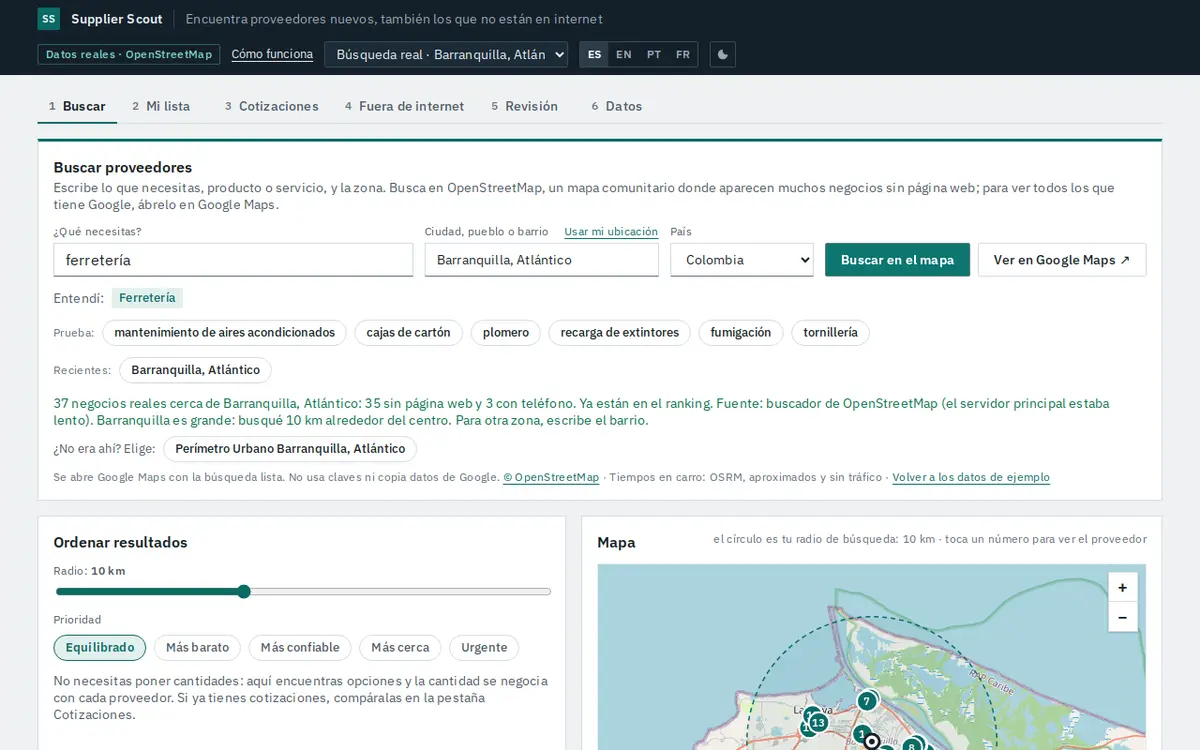
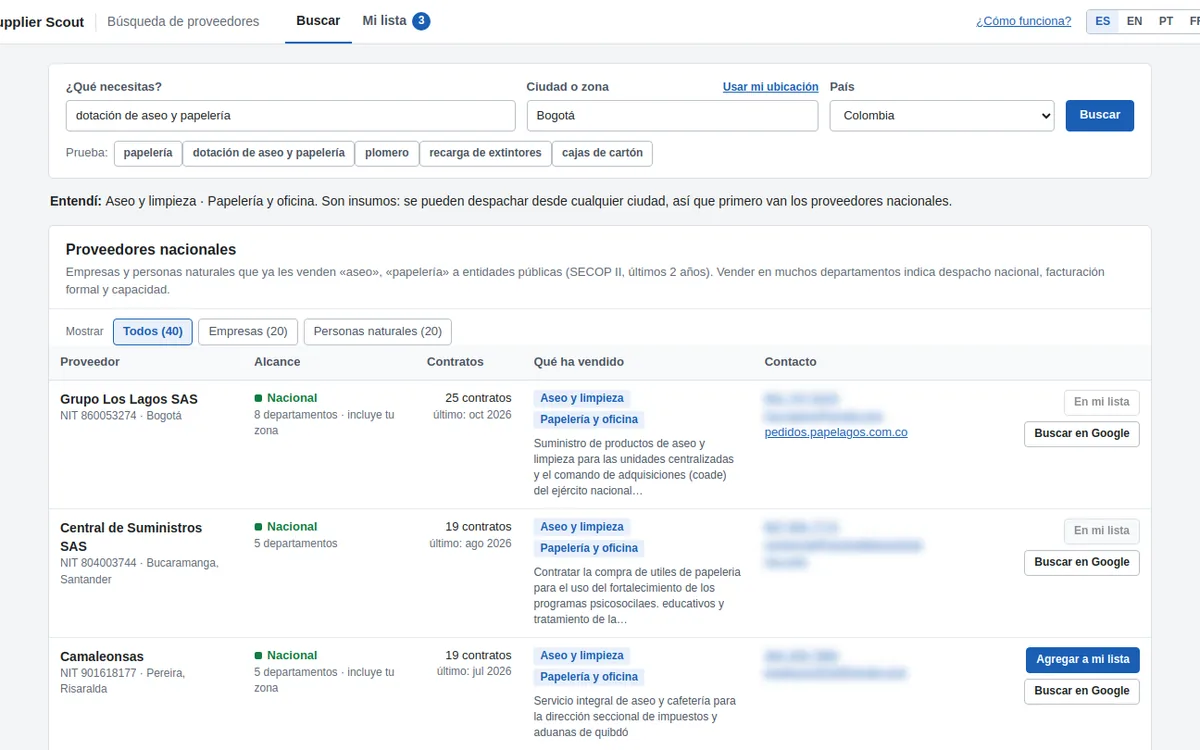
Portafolio: Supplier Scout y Supplier Radar al día
- Scout: búsqueda por capas (SECOP II, mis proveedores, cercanos, internet),
  personas naturales protegidas, 58/58 proveedores comprobados por NIT,
  199 pruebas e imagen nueva con datos reales (contactos difuminados).
- Radar: lee cada documento por dentro y revisa su vigencia; 159/201 fotos
  difíciles bien leídas y 0 aplicadas solas con error; imagen nueva.
- README: el guion de 2 minutos con las cifras nuevas.

Claude-Session: https://claude.ai/code/session_01KDuhrJDjhPcUyJR8smYRnx

diff --git a/index.html b/index.html
@@ -117,8 +117,8 @@
         <a href="#caso-radar"><span class="es">fuente</span><span class="en">source</span> ↓</a>
       </li>
       <li class="stat stat--blue">
-        <strong>67/67</strong>
-        <span class="es">proveedores reales comprobados en Supplier Scout</span><span class="en">real suppliers verified in Supplier Scout</span>
+        <strong>58/58</strong>
+        <span class="es">proveedores nacionales comprobados por NIT en Supplier Scout</span><span class="en">national suppliers verified by tax ID in Supplier Scout</span>
         <a href="https://github.com/Dsergio909/supplier-scout#what-is-tested-and-what-is-not" rel="noopener"><span class="es">fuente</span><span class="en">source</span> ↗</a>
       </li>
       <li class="stat stat--pink">
@@ -266,7 +266,7 @@
       <!-- CASO 01 -->
       <article class="case case--radar" id="caso-radar" aria-labelledby="t-radar">
         <div class="case__media">
-          <a href="https://dsergio909.github.io/supplier-radar/" rel="noopener" aria-label="Abrir la demo de Supplier Radar" data-en-aria-label="Open the Supplier Radar demo"><img src="img/caso-radar.webp" width="1200" height="750" loading="lazy" decoding="async" alt="Demo de Supplier Radar: bandeja de correos de proveedores y un pedido de cambio de cuenta bancaria que no se puede aceptar sin confirmar por teléfono" data-en-alt="Supplier Radar demo: an inbox of supplier replies and a bank-account change that cannot be accepted without a phone check"></a>
+          <a href="https://dsergio909.github.io/supplier-radar/" rel="noopener" aria-label="Abrir la demo de Supplier Radar" data-en-aria-label="Open the Supplier Radar demo"><img src="img/caso-radar.webp" width="1200" height="750" loading="lazy" decoding="async" alt="Demo de Supplier Radar: un correo con tres adjuntos leídos por dentro; la cámara de comercio se llama «sep2026» pero se expidió hace 61 días, así que no cuenta" data-en-alt="Supplier Radar demo: an email with three attachments read by content; the Chamber of Commerce certificate is named «sep2026» but was issued 61 days ago, so it does not count"></a>
         </div>
         <div class="case__body">
           <p class="eyebrow"><span class="es">Caso 01 · Compras · Práctica profesional</span><span class="en">Case 01 · Procurement · Internship</span></p>
@@ -276,19 +276,19 @@
             <div><dt><span class="es">Problema</span><span class="en">Problem</span></dt>
               <dd><span class="es">Pedir documentos uno por uno, buscar las respuestas en Gmail y confiar en una columna «estado» que en la práctica nadie mantenía al día.</span><span class="en">Requesting documents one by one, digging replies out of Gmail and trusting a “status” column that, in practice, nobody kept current.</span></dd></div>
             <div><dt><span class="es">Qué construí</span><span class="en">What I built</span></dt>
-              <dd><span class="es">Por iniciativa propia y sin presupuesto, cuatro automatizaciones del área: verificación documental de proveedores, matriz de contratos, carga de facturas y sincronización de carpetas. Supplier Radar reconstruye el núcleo: pide los documentos, lee las respuestas, decide quién escribió con niveles de confianza, archiva los adjuntos y calcula el tablero solo con fechas.</span><span class="en">On my own initiative and with no budget, four automations for the team: supplier document checks, a contract matrix, invoice upload and folder sync. Supplier Radar rebuilds the core: it requests documents, reads replies, decides who wrote using confidence tiers, files attachments and computes the dashboard from dates only.</span></dd></div>
+              <dd><span class="es">Por iniciativa propia y sin presupuesto, cuatro automatizaciones del área: verificación documental de proveedores, matriz de contratos, carga de facturas y sincronización de carpetas. Supplier Radar reconstruye el núcleo: pide los documentos, lee las respuestas, decide quién escribió con niveles de confianza, lee cada adjunto por dentro (aunque sea una foto del celular) para saber qué documento es y si sigue vigente, y calcula el tablero solo con fechas.</span><span class="en">On my own initiative and with no budget, four automations for the team: supplier document checks, a contract matrix, invoice upload and folder sync. Supplier Radar rebuilds the core: it requests documents, reads replies, decides who wrote using confidence tiers, reads each attachment's content (even a phone photo) to tell which document it is and whether it is still valid, and computes the dashboard from dates only.</span></dd></div>
             <div class="case__decision"><dt><span class="es">La decisión que defiendo</span><span class="en">The decision I'd defend</span></dt>
               <dd><span class="es">Evalué una API de IA para clasificar los correos y elegí un motor de reglas propio, por el alcance del consentimiento de datos. Y precisión antes que cobertura: una confirmación equivocada marca como «al día» a un proveedor que no lo está; una revisión de más le cuesta diez segundos a una persona.</span><span class="en">I evaluated an AI API to classify the emails and chose my own rules engine, because of the scope of data consent. And precision over recall: a wrong confirmation marks a supplier as compliant when it is not; one extra review costs a person ten seconds.</span></dd></div>
           </dl>
           <ul class="results">
             <li><b>4</b> <span class="es">automatizaciones entregadas con acta (agosto de 2026), base de mi trabajo de grado</span><span class="en">automations handed over with formal sign-off (August 2026), the basis of my degree project</span></li>
-            <li><b>0</b> <span class="es">herramientas de pago y 0 dependencias</span><span class="en">paid tools and 0 dependencies</span></li>
-            <li><b>3</b> <span class="es">entornos con la misma lógica sin cambios: Node, navegador y Apps Script</span><span class="en">runtimes sharing the same unchanged logic: Node, browser and Apps Script</span></li>
+            <li><b>159/201</b> <span class="es">fotos difíciles de documentos ficticios leídas bien (poca luz, WhatsApp, fax, arrugadas, con sello), y 0 aplicadas solas con un error</span><span class="en">hard photos of fictional documents read right (dim light, WhatsApp, fax, crumpled, stamped), and 0 applied on their own with a mistake</span></li>
+            <li><b>0</b> <span class="es">herramientas de pago: el reconocimiento de texto es el de Google Drive</span><span class="en">paid tools: text recognition is Google Drive's own</span></li>
             <li><b>SPF/DMARC</b> <span class="es">si Gmail no verifica al remitente, nunca confirma: lo manda a revisión</span><span class="en">if Gmail cannot verify the sender, it never confirms: it goes to review</span></li>
           </ul>
-          <p class="gap"><b><span class="es">Lo que aún no hace:</span><span class="en">What it doesn't do yet:</span></b> <span class="es">lee el texto del correo, no el contenido de los adjuntos.</span><span class="en">it reads the email text, not the content of the attachments.</span></p>
+          <p class="gap"><b><span class="es">Lo que aún no hace:</span><span class="en">What it doesn't do yet:</span></b> <span class="es">el lector de Google Drive aún no lo he probado en un Gmail real, y con poca luz o fotos de WhatsApp en baja calidad muchos documentos quedan para revisión humana.</span><span class="en">I have not yet tried Google Drive's reader on a real Gmail account, and with dim light or low-quality WhatsApp photos many documents are left for human review.</span></p>
           <ul class="tags" aria-label="Herramientas" data-en-aria-label="Tools">
-            <li>Google Apps Script</li><li>Sheets</li><li>Gmail</li><li>Drive</li><li>AppSheet</li><li>JavaScript</li><li>Node</li><li>GitHub Actions</li>
+            <li>Google Apps Script</li><li>Sheets</li><li>Gmail</li><li>Drive</li><li>OCR</li><li>AppSheet</li><li>JavaScript</li><li>Node</li><li>GitHub Actions</li>
           </ul>
           <p class="links">
             <a class="btn btn--small btn--primary" href="https://dsergio909.github.io/supplier-radar/" rel="noopener"><span class="es">Demo completa ↗</span><span class="en">Full demo ↗</span></a>
@@ -302,29 +302,29 @@
       <!-- CASO 02 -->
       <article class="case case--scout" id="caso-scout" aria-labelledby="t-scout">
         <div class="case__media">
-          <a href="https://dsergio909.github.io/supplier-scout/" rel="noopener" aria-label="Abrir la demo de Supplier Scout" data-en-aria-label="Open the Supplier Scout demo"><img src="img/caso-scout.webp" width="1200" height="750" loading="lazy" decoding="async" alt="Búsqueda real en Supplier Scout: ferretería en Barranquilla, 37 negocios reales encontrados y su mapa" data-en-alt="A real Supplier Scout search: hardware stores in Barranquilla, 37 real businesses found and their map"></a>
+          <a href="https://dsergio909.github.io/supplier-scout/" rel="noopener" aria-label="Abrir la demo de Supplier Scout" data-en-aria-label="Open the Supplier Scout demo"><img src="img/caso-scout.webp" width="1200" height="750" loading="lazy" decoding="async" alt="Búsqueda real en Supplier Scout: dotación de aseo y papelería en Bogotá; proveedores nacionales de SECOP II que venden ambas cosas, con su alcance, contratos y un contrato de ejemplo (contactos difuminados)" data-en-alt="A real Supplier Scout search: cleaning and office supplies in Bogotá; national suppliers from SECOP II that sell both, with their reach, contracts and an example contract (contacts blurred)"></a>
         </div>
         <div class="case__body">
           <p class="eyebrow"><span class="es">Caso 02 · Abastecimiento · Datos reales</span><span class="en">Case 02 · Sourcing · Real data</span></p>
           <h3 id="t-scout">Supplier Scout</h3>
-          <p class="case__lede"><span class="es">Busca proveedores reales cerca de cualquier ciudad, pueblo o barrio, incluidos los que no tienen página web, y ayuda a llegar a tres cotizaciones.</span><span class="en">Finds real suppliers near any city, town or neighborhood, including the ones with no website, and helps you get to three quotes.</span></p>
+          <p class="case__lede"><span class="es">Busca proveedores como lo hace compras: varias opciones para cada necesidad, no solo el negocio de la esquina.</span><span class="en">Finds suppliers the way purchasing does: several options for every need, not just the shop around the corner.</span></p>
           <dl class="case__grid">
             <div><dt><span class="es">Problema</span><span class="en">Problem</span></dt>
-              <dd><span class="es">En compras se piden varias cotizaciones antes de negociar, pero muchos proveedores locales no tienen página web, y buscarlos uno por uno, anotarlos y escribirles toma horas.</span><span class="en">Procurement asks several suppliers for quotes before negotiating, but many local suppliers have no website, and finding them one by one, writing them down and contacting each takes hours.</span></dd></div>
+              <dd><span class="es">Un mapa responde «¿quién está cerca?», pero compras pregunta «¿quién me surte y en qué condiciones?». La papelería, el aseo o la dotación se compran a distribuidores que despachan a todo el país y dan crédito, y ningún mapa los muestra. Además, se necesitan al menos tres cotizaciones.</span><span class="en">A map answers “who is near me?”, but purchasing asks “who can supply this, and on what terms?”. Stationery, cleaning supplies or uniforms are bought from distributors that ship nationwide and give credit, and no map shows them. And at least three quotes are needed.</span></dd></div>
             <div><dt><span class="es">Qué construí</span><span class="en">What I built</span></dt>
-              <dd><span class="es">Una app web donde se escribe lo que se necesita en palabras normales («ferretería», «mantenimiento de aires acondicionados») y el lugar. Busca en OpenStreetMap, muestra los negocios en un mapa con el tiempo en carro y arma una lista corta con cuadro comparativo, pedido de cotización y enlaces para verificar la empresa en el registro de cada país. No pide cantidades: eso se negocia con cada proveedor. Además compara cotizaciones por el costo real del pedido y trae SECOP II y un agente opcional con la API de Claude por terminal.</span><span class="en">A web app where you type what you need in plain words (“hardware store”, “air-conditioning maintenance”) and the place. It searches OpenStreetMap, shows the businesses on a map with driving time, and builds a shortlist with a comparison table, a quote request and links to check each company in its country's registry. It does not ask for quantities: those are negotiated with each supplier. It also compares quotes by the real cost of the order and adds SECOP II and an optional Claude API agent from the command line.</span></dd></div>
+              <dd><span class="es">Una app web donde se escribe lo que se necesita en palabras normales («papelería», «recarga de extintores») y el lugar. Muestra cuatro capas: proveedores nacionales que ya le venden eso al Estado según SECOP II (empresas y personas naturales, con un contrato real de ejemplo y su contacto público), mis proveedores con sus condiciones de pago, negocios cercanos de OpenStreetMap con el tiempo en carro y búsquedas listas en Google, LinkedIn y Facebook. Después arma la lista corta, los pedidos de cotización por WhatsApp o correo y el cuadro comparativo para Excel.</span><span class="en">A web app where you type what you need in plain words (“stationery”, “extinguisher refills”) and the place. It shows four layers: national suppliers that already sell that to the state according to SECOP II (companies and individuals, with a real example contract and their public contact), my suppliers with their payment terms, nearby businesses from OpenStreetMap with driving time, and ready-made searches on Google, LinkedIn and Facebook. Then it builds the shortlist, the quote requests by WhatsApp or email and the comparison table for Excel.</span></dd></div>
             <div class="case__decision"><dt><span class="es">La decisión que defiendo</span><span class="en">The decision I'd defend</span></dt>
-              <dd><span class="es">Datos reales y comprobables antes que más funciones. Busca en un mapa abierto y gratuito en vez de extraer datos de Google Maps, que exige una clave de pago y no permite copiarlos; un botón abre Google Maps con la misma búsqueda. Y no adivino si funciona: una prueba en vivo comprueba cada negocio que muestra contra la base del mapa.</span><span class="en">Real, verifiable data before more features. It searches an open, free map instead of extracting data from Google Maps, which needs a paid key and does not allow copying; a button opens Google Maps with the same search. And I do not guess whether it works: a live check verifies every business it shows against the map database.</span></dd></div>
+              <dd><span class="es">Datos abiertos y comprobables antes que más funciones: SECOP II y OpenStreetMap en vez de copiar datos de Google, que no lo permite. E incluir a las personas naturales, que muchas veces son más baratas, pero protegidas: su cédula nunca se muestra ni se guarda, y los contratos de «apoyo a la gestión» quedan fuera.</span><span class="en">Open, verifiable data before more features: SECOP II and OpenStreetMap instead of copying Google's data, which is not allowed. And including individuals, who are often cheaper, but protected: their ID number is never shown or saved, and quasi-staff contracts are left out.</span></dd></div>
           </dl>
           <ul class="results">
-            <li><b>67/67</b> <span class="es">negocios encontrados existen de verdad: comprobados uno por uno en OpenStreetMap, en 3 corridas en vivo</span><span class="en">businesses found really exist: checked one by one on OpenStreetMap, across 3 live runs</span></li>
-            <li><b>3-13 s</b> <span class="es">por búsqueda, con un servidor de respaldo si el principal no responde</span><span class="en">per search, with a backup server when the main one does not answer</span></li>
-            <li><b>179</b> <span class="es">pruebas automáticas en integración continua</span><span class="en">automated tests in CI</span></li>
-            <li><b>23</b> <span class="es">perfiles de país, 4 idiomas y verificación de la empresa en 7 países</span><span class="en">country profiles, 4 languages and company checks in 7 countries</span></li>
+            <li><b>58/58</b> <span class="es">proveedores nacionales comprobados por NIT en SECOP II, en 12 búsquedas reales</span><span class="en">national suppliers verified by tax ID in SECOP II, across 12 real searches</span></li>
+            <li><b>0</b> <span class="es">contratos de personal de apoyo y 0 cédulas en pantalla en la prueba en vivo</span><span class="en">quasi-staff contracts and 0 ID numbers on screen in the live check</span></li>
+            <li><b>3-9 s</b> <span class="es">por búsqueda, en computador y en celular</span><span class="en">per search, on desktop and on a phone</span></li>
+            <li><b>199</b> <span class="es">pruebas automáticas en integración continua</span><span class="en">automated tests in CI</span></li>
           </ul>
-          <p class="gap"><b><span class="es">Lo que falta:</span><span class="en">What is missing:</span></b> <span class="es">el mapa abierto tiene huecos: en algunas zonas no aparece ningún negocio del tipo buscado y solo 1 de cada 10 trae teléfono. La terminal y el agente todavía no los he corrido contra los servicios reales.</span><span class="en">the open map has gaps: some areas show no business of the kind searched and only 1 in 10 has a phone number. The command line and the agent have not been run against the live services yet.</span></p>
+          <p class="gap"><b><span class="es">Lo que falta:</span><span class="en">What is missing:</span></b> <span class="es">la capa nacional solo existe para Colombia, y SECOP muestra a quién le vende al Estado, no a todo el mercado. El mapa abierto no encontró nada en 6 de 12 búsquedas: por eso es una capa de cuatro.</span><span class="en">the national layer exists only for Colombia, and SECOP shows who sells to the state, not the whole market. The open map found nothing for 6 of 12 searches: that is why it is one layer of four.</span></p>
           <ul class="tags" aria-label="Herramientas" data-en-aria-label="Tools">
-            <li>JavaScript</li><li>OpenStreetMap</li><li>OSRM</li><li>Playwright</li><li>GitHub Actions</li><li>Claude API</li><li>SECOP II</li>
+            <li>JavaScript</li><li>SECOP II</li><li>OpenStreetMap</li><li>OSRM</li><li>Playwright</li><li>GitHub Actions</li><li>Claude API</li>
           </ul>
           <p class="links">
             <a class="btn btn--small btn--primary" href="https://dsergio909.github.io/supplier-scout/" rel="noopener"><span class="es">Demo ↗</span><span class="en">Demo ↗</span></a>

diff --git a/README.md b/README.md
@@ -45,9 +45,9 @@ img/                capturas de las demos, favicon e imagen para compartir (og.p
 
 > «Mi portafolio no es una lista de herramientas: son tres problemas reales y cómo los resolví.
 >
-> El primero viene de mi práctica en compras. El seguimiento de proveedores era manual: pedir documentos uno por uno y buscar las respuestas en Gmail. Construí cuatro automatizaciones en Google Workspace y las entregué con acta. La decisión clave fue no usar una API de IA para leer los correos, por el consentimiento de datos, sino un motor de reglas con niveles de confianza: solo confirma lo que tiene evidencia fuerte y única, y lo dudoso va a una persona. En la página se puede probar en vivo, incluido un correo falso que pide cambiar la cuenta bancaria: el sistema no lo confirma porque Gmail no verificó al remitente.
+> El primero viene de mi práctica en compras. El seguimiento de proveedores era manual: pedir documentos uno por uno y buscar las respuestas en Gmail. Construí cuatro automatizaciones en Google Workspace y las entregué con acta. La decisión clave fue no usar una API de IA para leer los correos, por el consentimiento de datos, sino un motor de reglas con niveles de confianza: solo confirma lo que tiene evidencia fuerte y única, y lo dudoso va a una persona. En la página se puede probar en vivo, incluido un correo falso que pide cambiar la cuenta bancaria: el sistema no lo confirma porque Gmail no verificó al remitente. Y como los proveedores mandan fotos y escaneos con nombres que no dicen nada, lee cada documento por dentro y revisa que siga vigente: lo puse a prueba con 201 fotos difíciles y no aplicó ninguna sola con un error; lo dudoso va a una persona.
 >
-> El segundo, Supplier Scout, busca proveedores reales cerca de cualquier lugar, incluidos los que no tienen página web, y ayuda a llegar a tres cotizaciones. No me quedé con que «parece que funciona»: armé una prueba en vivo que comprueba cada negocio que muestra contra la base de OpenStreetMap, y 67 de 67 existen. Esa misma prueba encontró fallas reales, como un servidor que tardaba 30 segundos, y las corregí.
+> El segundo, Supplier Scout, busca proveedores como lo hace compras: los distribuidores nacionales que ya le venden eso al Estado (datos abiertos de SECOP II), los proveedores que ya tengo, los negocios cercanos y búsquedas listas en internet, para llegar a tres cotizaciones. No me quedé con que «parece que funciona»: armé una prueba en vivo con datos reales, y los 58 proveedores que mostró tienen contratos bajo ese NIT. Esa misma prueba encontró fallas reales, como palabras ambiguas que traían empresas equivocadas («vigilancia» traía vigilancia epidemiológica), y las corregí.
 >
 > El tercero es mi negocio de impresión 3D, donde agentes de IA hacen diseño y marketing y yo dirijo y verifico. Ahí aprendí a medir antes de escalar: 189 agentes en paralelo fallaron; 9 bien acotados terminaron todos.
 >
